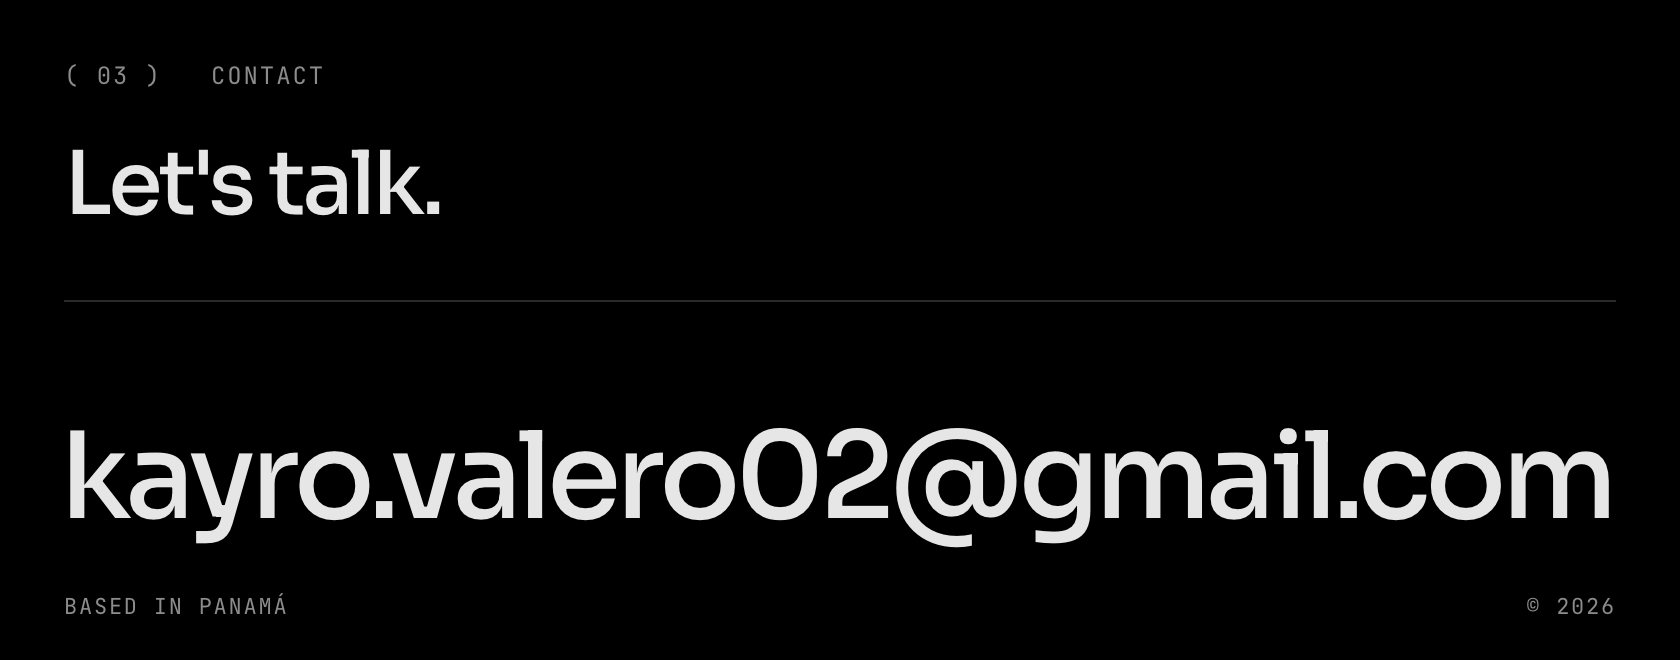
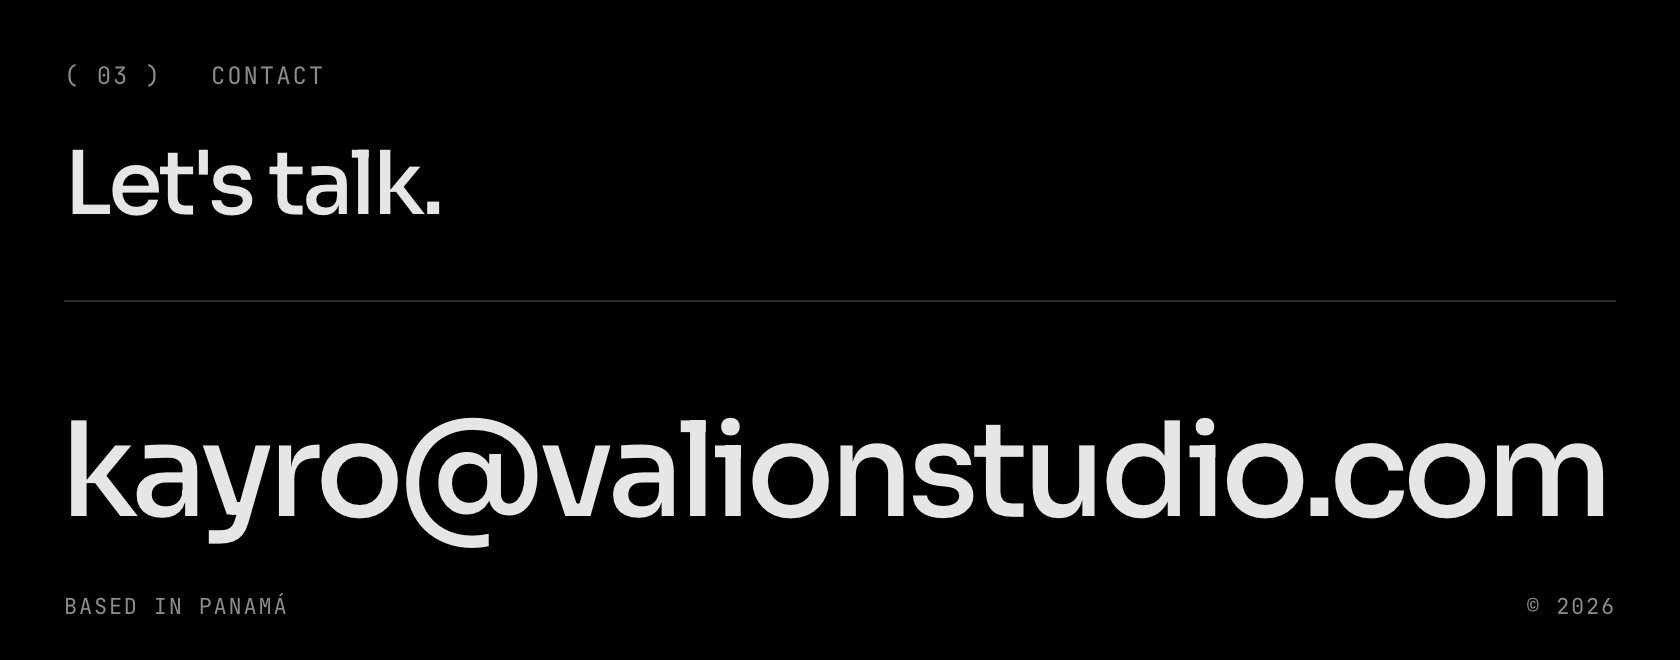
docs: Villa Marena and Ojitos Negros built with WordPress MCP Bridge; studio email

Changed region(s): [[0.031, 0.6364, 0.9595, 0.8485], [0.031, 0.6364, 0.0619, 0.6667]]

diff --git a/src/laminas.html b/src/laminas.html
@@ -113,7 +113,7 @@
     <div class="rotulo mono">( 03 )&nbsp;&nbsp;&nbsp;Contact</div>
     <h2>Let's talk.</h2>
     <div class="linea"></div>
-    <div class="marca" id="correo">kayro.valero02@gmail.com</div>
+    <div class="marca" id="correo">kayro@valionstudio.com</div>
     <div class="base mono"><span>Based in Panamá</span><span class="num">© 2026</span></div>
   </section>
 

diff --git a/README.md b/README.md
@@ -30,12 +30,12 @@ The CMS behind my portfolio: Emdash on Workers, with D1 for content and R2 for m
 <sub>ASTRO · EMDASH · D1 · R2 · WORKERS BUILDS</sub>
 
 06&nbsp;&nbsp; **[Villa Marena](https://villamarena.com)**&nbsp;· WordPress developer&nbsp;· 2026<br>
-Boutique hotel in Acapulco. Rooms bookable by date with six seasons of rates, Stripe at checkout, and availability synced with Booking.com and Expedia.<br>
-<sub>WORDPRESS · ELEMENTOR PRO · MOTOPRESS HOTEL BOOKING · STRIPE</sub>
+Boutique hotel in Acapulco. I built the site from a 12-screen design with my own tool, WordPress MCP Bridge (03). Rooms are bookable by date with six seasons of rates, Stripe at checkout, and availability synced with Booking.com and Expedia.<br>
+<sub>WORDPRESS MCP BRIDGE · ELEMENTOR PRO · MOTOPRESS · STRIPE</sub>
 
 07&nbsp;&nbsp; **[Ojitos Negros](https://modae.shop)**&nbsp;· WooCommerce developer&nbsp;· 2026<br>
-Store for garments embroidered by Otomí artisans. The shop runs on my own engine over the WooCommerce Store API: filters, sorting and paging without reloads.<br>
-<sub>WOOCOMMERCE · STORE API · ELEMENTOR PRO</sub>
+Store for garments embroidered by Otomí artisans, built from the brand's design file with WordPress MCP Bridge (03). The shop runs on my own engine over the WooCommerce Store API: filters, sorting and paging without reloads.<br>
+<sub>WORDPRESS MCP BRIDGE · WOOCOMMERCE · STORE API · ELEMENTOR PRO</sub>
 
 Most of this work lives in private repositories. The case studies, with screens, are on [my portfolio](https://portfolio-kayro.sannelvalero.workers.dev/).
 
@@ -49,7 +49,7 @@ Most of this work lives in private repositories. The case studies, with screens,
 <br>
 <br>
 
-<a href="mailto:kayro.valero02@gmail.com"><img src="assets/footer.png" width="100%" alt="03, contact. Let's talk: kayro.valero02@gmail.com. Based in Panamá."></a>
+<a href="mailto:kayro@valionstudio.com"><img src="assets/footer.png" width="100%" alt="03, contact. Let's talk: kayro@valionstudio.com. Based in Panamá."></a>
 
 <a href="https://www.linkedin.com/in/kayro-valero"><img src="assets/btn-linkedin.png" height="44" alt="LinkedIn"></a>&nbsp;
 <a href="https://portfolio-kayro.sannelvalero.workers.dev/"><img src="assets/btn-portfolio.png" height="44" alt="Portfolio"></a>
